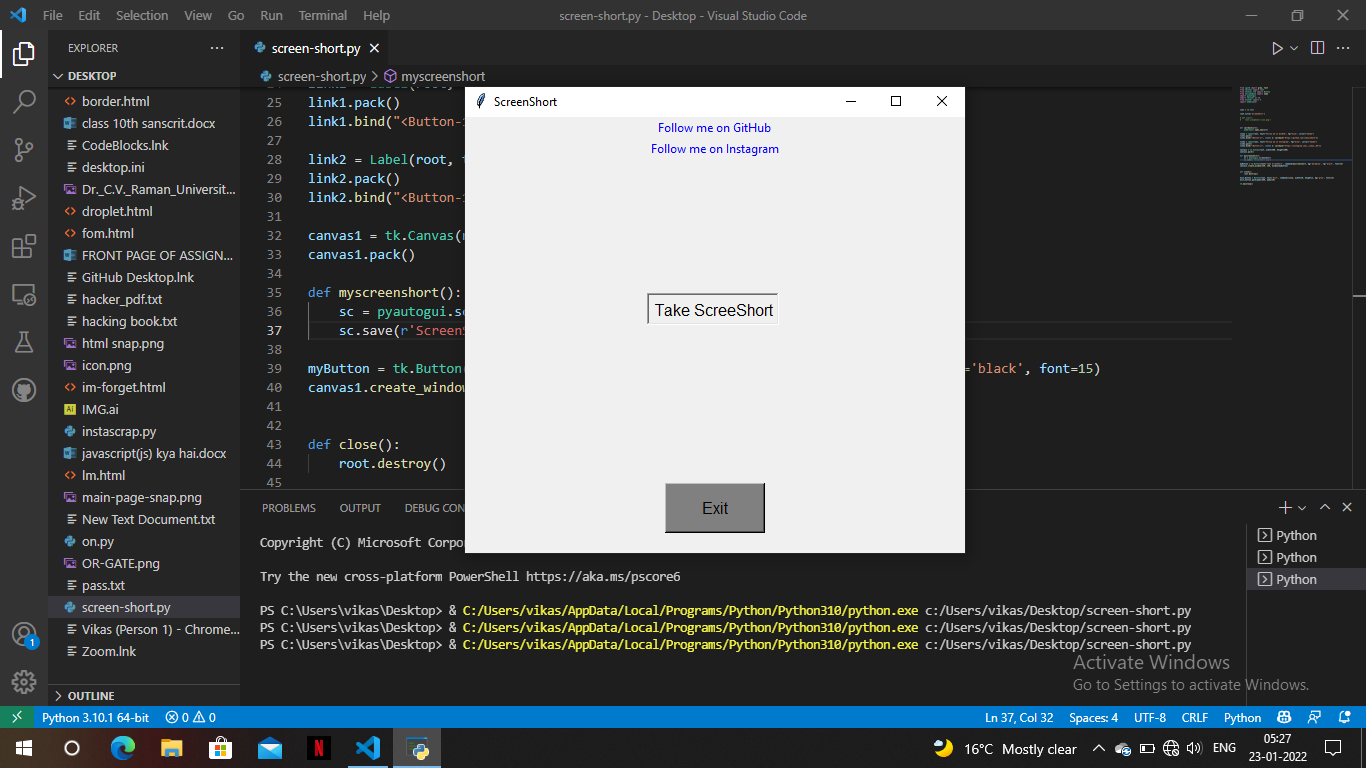
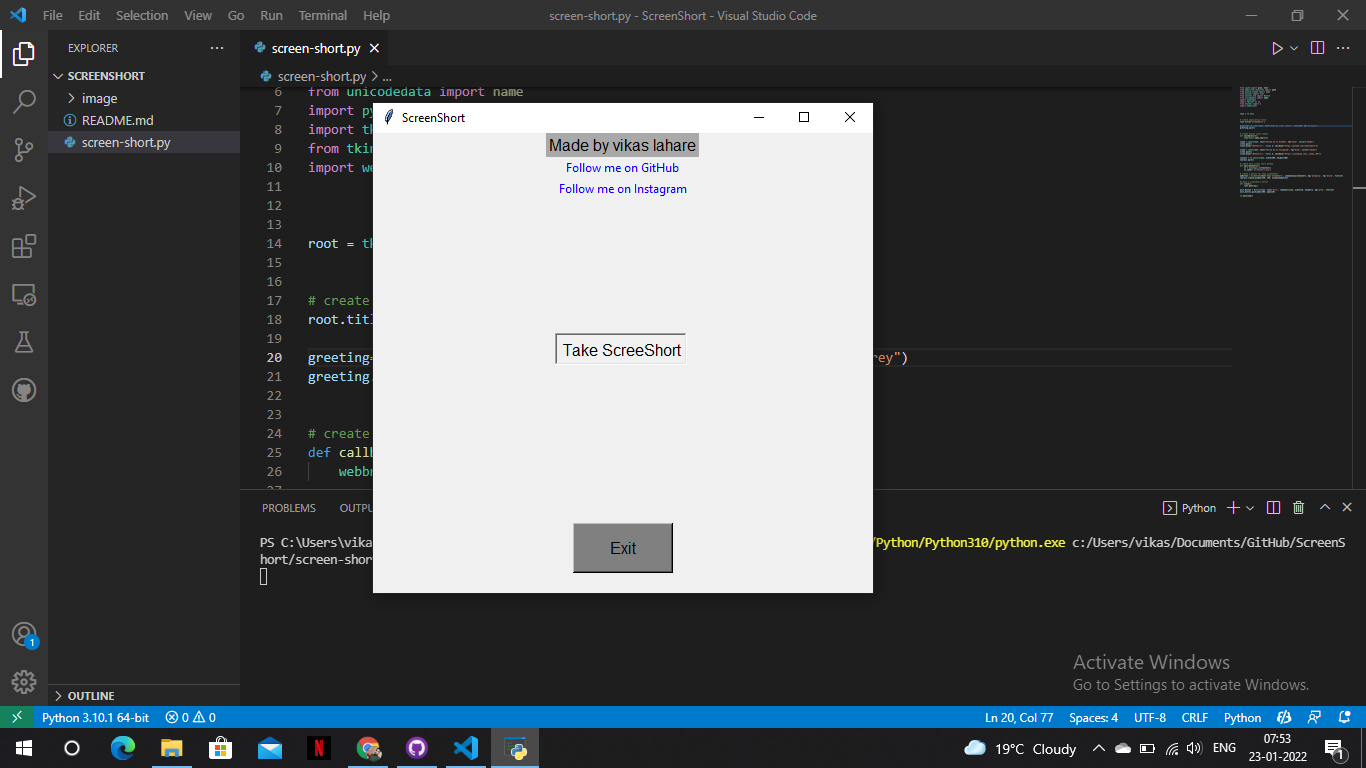
ScreenShort
ScreenShort

diff --git a/screen-short.py b/screen-short.py
@@ -17,6 +17,9 @@ root = tk.Tk()
 # create application title
 root.title('ScreenShort')
 
+greeting= tk.Label(root, text="Made by vikas lahare", font=100, bg="darkgrey")
+greeting.pack()
+
 
 # create Social Links labels
 def callback(url):

diff --git a/README.md b/README.md
@@ -9,7 +9,7 @@
 **ScreenShort 2**
 
 
-<img src="image/screenshort1.PNG" width="400">
+<img src="image/ScreenShort01.PNG" width="400">
 
 
 **[Follow me on Instagram](https://instagram.com/__vikas__05)**
